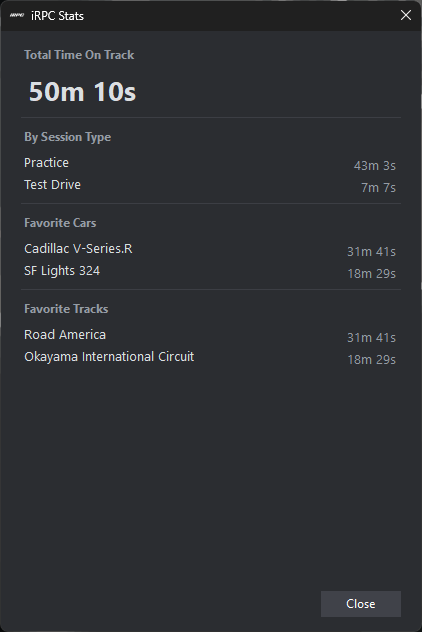
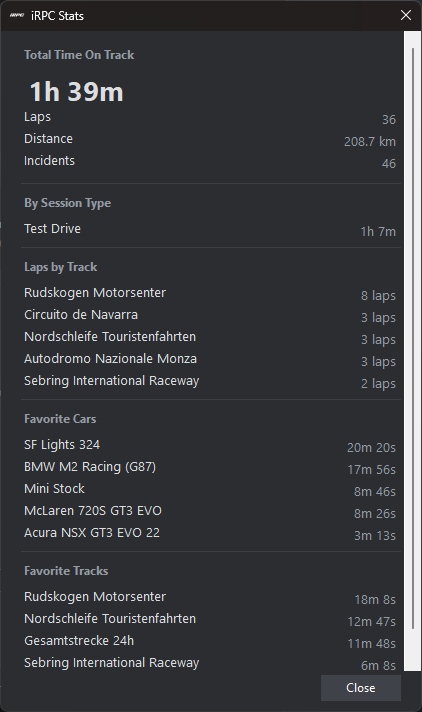
README: copy edits and add preview image
Add new settings preview image and refresh README text for clarity. Files changed: added ArtAssets/preview_settings_chipeditor.png and updated ArtAssets/preview_stats.png. README.md received copy-editing (hyphenation/punctuation), replaced "bricks" wording with "chips" and updated related UI descriptions and screenshots, clarified logging/debug instructions, simplified publish example (removed versioned exe name), and other small wording improvements to make the docs clearer for users.

diff --git a/README.md b/README.md
@@ -1,6 +1,6 @@
 # iRPC
 
-A lightweight Windows system tray app that displays your live iRacing session as Discord Rich Presence — track, car, position, lap progress, fuel, weather, iRating, and more, fully customizable.
+A lightweight Windows system tray app that shows your live iRacing session as Discord Rich Presence. Track, car, position, lap progress, fuel, weather, iRating, and more - all fully customizable.
 
 ![Discord Rich Presence preview](ArtAssets/preview.png)
 
@@ -8,27 +8,25 @@ A lightweight Windows system tray app that displays your live iRacing session as
 
 ## Features
 
-- **Live session info in Discord** — track, car, session type, position/class position, laps, time remaining, speed, fuel, last/best lap, weather, flags, pit/garage status
-- **iRating & Strength of Field** — your live iRating plus rolling averages (last 5 / 10 / custom window of races), and a session's Strength of Field computed with iRacing's own Elo-style formula
-- **Pit & damage tracking** — mandatory/optional repair time remaining, fast repairs used/available, incident count
-- **Per-session-type presence customization** (Practice, Qualify, Race, Test Drive, Time Trial) — each gets its own template
-- **Drag-and-drop brick editor** — build your Details and State lines visually, no typing required
-- **Live preview in Settings** before you save
-- **Track and car brand logos** served directly from GitHub — no Discord asset uploads, no 300-asset limit
-- **Elapsed session timer** as a Discord timestamp
-- **Stats window** — tracks your total time on track, broken down by session type, car, and track
-- **Pause Presence** — instantly hide your presence from the tray menu without closing the app
+- **Live session info in Discord** - track, car, session type, position, laps, time remaining, speed, fuel, last/best lap, weather, flags, pit and garage status
+- **iRating and Strength of Field** - your live iRating, rolling averages (last 5 / 10 / custom races), and SoF using iRacing's own formula
+- **Pit and damage tracking** - repair time remaining, fast repairs used/available, incident count
+- **Per-session templates** - Practice, Qualify, Race, Test Drive, and Time Trial each get their own layout
+- **Chip template editor** - click chips to build your presence, grouped by category with tooltips on each one. Classic text editor also available if you prefer it
+- **Live preview in Settings** before saving
+- **Track and car brand logos** pulled directly from GitHub - no Discord asset limit
+- **Elapsed session timer** shown as a Discord timestamp
+- **Stats window** - tracks your total time on track broken down by session type, car, and track
+- **Pause Presence** - hide your presence from the tray menu without closing the app
 - **Launches on Windows startup** (optional)
-- **Self-updating** — checks GitHub Releases, downloads, verifies, and installs updates with one click
-
-<!-- Add a screenshot here showing a few different Discord presence examples (Practice/Race/etc) -->
+- **Self-updating** - checks GitHub Releases, downloads, verifies, and installs with one click
 
 ---
 
 ## Requirements
 
 - Windows 10 or 11
-- [.NET 8 Desktop Runtime](https://dotnet.microsoft.com/en-us/download/dotnet/8.0) — if missing, Windows will prompt you to install it on the first launch
+- [.NET 8 Desktop Runtime](https://dotnet.microsoft.com/en-us/download/dotnet/8.0) - if missing, Windows will prompt you to install it on first launch
 - Discord (desktop app)
 - iRacing
 
@@ -37,7 +35,7 @@ A lightweight Windows system tray app that displays your live iRacing session as
 ## Installation
 
 1. Download `iRPC.exe` from the [latest release](https://github.com/aftermath-dev/iRPC/releases/latest)
-2. Run it — a tray icon appears in the system tray
+2. Run it - a tray icon appears in the system tray
 3. Open iRacing and start a session
 
 No installer required.
@@ -52,7 +50,7 @@ Right-click the tray icon for:
 |-------------------|------------------------------------------------------|
 | Settings          | Opens the Settings window                            |
 | Stats             | Opens the time-on-track Stats window                 |
-| Reconnect Discord | Forces a fresh handshake with the Discord client     |
+| Reconnect Discord | Forces a fresh connection to the Discord client      |
 | Pause Presence    | Temporarily hides your presence without closing iRPC |
 | Check for Updates | Manually checks GitHub for a newer release           |
 | Exit              | Closes iRPC and clears your Discord presence         |
@@ -63,19 +61,19 @@ Right-click the tray icon for:
 
 ## Settings
 
-Right-click the tray icon → **Settings**
+Right-click the tray icon - **Settings**
 
 ### Presence
 
-Configure what appears on each line of the Discord presence. Select a session type from the dropdown to customize each one independently.
+Configure what appears on each line of the Discord presence. Pick a session type from the dropdown to customize each one independently.
 
-**Details** and **State** are built using draggable bricks. Click a brick in the *Available* pool to add it, drag active bricks to reorder, click × to remove. Hover any brick for a description of what it outputs.
+**Details** and **State** are built using chips. Click a chip to add it to your template, drag to reorder, click × to remove. Hover any chip to see what it outputs. Chips are grouped by category (Session, Position, Lap Times, iRating, Speed & Fuel, Weather, Pit & Status). A classic text editor is also available under App settings if you prefer typing.
 
-![Presence brick editor](ArtAssets/preview_settings_brickeditor.png)
+![Presence editor](ArtAssets/preview_settings_chipeditor.png)
 
-Available bricks:
+Available chips:
 
-| Brick                | Output                                             |
+| Chip                 | Output                                             |
 |----------------------|----------------------------------------------------|
 | Session              | Session type (Race, Practice...)                   |
 | Track                | Track name                                         |
@@ -113,9 +111,9 @@ Available bricks:
 | Setting          | Description                                  |
 |------------------|----------------------------------------------|
 | Large icon       | iRacing logo, iRPC logo, or track logo       |
-| Large image text | Bricks shown as hover text on the large icon |
-| Small icon       | Off, car brand logo, or session type icon    |
-| Small image text | Bricks shown as hover text on the small icon |
+| Large image text | Text shown when hovering the large icon (built with chips) |
+| Small icon       | Off, car brand logo, or session type icon                  |
+| Small image text | Text shown when hovering the small icon (built with chips) |
 
 ![Icons settings](ArtAssets/preview_settings_icons.png)
 
@@ -124,7 +122,6 @@ Available bricks:
 | Setting                      | Description                                                |
 |------------------------------|------------------------------------------------------------|
 | Discord App ID               | Discord application used for Rich Presence                 |
-| Show elapsed timer           | Display elapsed session time as a Discord timestamp        |
 | Show GitHub button           | Show a link to this repo on the presence                   |
 | Launch on startup            | Start iRPC automatically with Windows                      |
 | Check for updates on startup | Silently check for a newer release each time iRPC launches |
@@ -136,7 +133,7 @@ Available bricks:
 
 ## Stats
 
-Open via the tray menu → **Stats**. Shows your accumulated time on track, broken down by session type, car, and track — persisted locally, no account or login needed.
+Open via the tray menu - **Stats**. Shows your accumulated time on track, broken down by session type, car, and track. Saved locally, no account needed.
 
 ![Stats window](ArtAssets/preview_stats.png)
 
@@ -144,7 +141,7 @@ Open via the tray menu → **Stats**. Shows your accumulated time on track, brok
 
 ## Track & Brand Logos
 
-Logos are served directly from `ArtAssets/Tracks/` and `ArtAssets/Brands/` in this repo — no Discord asset upload required. To add a new logo, add a PNG with the right filename and push.
+Logos are served directly from `ArtAssets/Tracks/` and `ArtAssets/Brands/` in this repo - no Discord asset upload required. To add a logo, add a PNG with the right filename and push.
 
 **Filename convention:** lowercase, spaces and hyphens replaced with underscores, prefixed with `track_` or `brand_`.
 
@@ -154,7 +151,7 @@ Logos are served directly from `ArtAssets/Tracks/` and `ArtAssets/Brands/` in th
 | Car brand    | Ferrari  | `brand_ferrari.png` |
 | Session icon | Practice | `icon_practice.png` |
 
-iRPC auto-generates the key from the track/car name reported by iRacing. If the generated key doesn't match your filename (e.g., iRacing calls it "Spa-Francorchamps" → `track_spa_francorchamps`), add a remap in `%AppData%\iRPC\key_overrides.json`:
+iRPC generates the asset key automatically from the track/car name reported by iRacing. If it doesn't match your filename, add a remap in `%AppData%\iRPC\key_overrides.json`:
 
 ```json
 {
@@ -162,7 +159,7 @@ iRPC auto-generates the key from the track/car name reported by iRacing. If the 
 }
 ```
 
-Common remaps are pre-seeded. Check `%AppData%\iRPC\iRPC.log` to see exactly which key and URL the app is resolving for each session.
+Common remaps are pre-seeded. Enable Debug Mode to see exactly which key and URL the app is resolving each session.
 
 ---
 
@@ -179,20 +176,20 @@ dotnet run
 To publish a release build:
 
 ```powershell
-dotnet publish -c Release -r win-x64 -p:SelfContained=false -p:PublishSingleFile=true -p:AssemblyName=iRPC-v0.0.7
+dotnet publish -c Release -r win-x64 -p:SelfContained=false -p:PublishSingleFile=true -p:AssemblyName=iRPC
 ```
 
-Output: `bin/Release/net8.0-windows/win-x64/publish/iRPC-v0.0.7.exe` (~1 MB, framework-dependent)
+Output: `bin/Release/net8.0-windows/win-x64/publish/iRPC.exe` (~1 MB, requires .NET 8 runtime)
 
 ---
 
 ## Logs & Data Files
 
-| File                                  | Contents                                                                |
-|---------------------------------------|-------------------------------------------------------------------------|
-| `%AppData%\iRPC\iRPC.log`             | Debug log — poll ticks, YAML updates, resolved image URLs               |
-| `%AppData%\iRPC\settings.json`        | App settings                                                            |
-| `%AppData%\iRPC\stats.json`           | Time-on-track stats (session type / car / track)                        |
-| `%AppData%\iRPC\irating_history.json` | Your recorded race-end iRatings, used for the rolling averages          |
-| `%AppData%\iRPC\key_overrides.json`   | Asset key remappings (e.g. `track_spa_francorchamps` → `track_spa`)     |
-| `%AppData%\iRPC\tracks.txt`           | Every unique track seen, auto-appended on each new session (if enabled) |
+| File                                  | Contents                                                            |
+|---------------------------------------|---------------------------------------------------------------------|
+| `%AppData%\iRPC\iRPC.log`             | Debug log - poll ticks, YAML updates, resolved image URLs           |
+| `%AppData%\iRPC\settings.json`        | App settings                                                        |
+| `%AppData%\iRPC\stats.json`           | Time-on-track stats (session type / car / track)                    |
+| `%AppData%\iRPC\irating_history.json` | Your recorded race-end iRatings, used for rolling averages          |
+| `%AppData%\iRPC\key_overrides.json`   | Asset key remaps (e.g. `track_spa_francorchamps` -> `track_spa`)    |
+| `%AppData%\iRPC\tracks.txt`           | Every unique track seen, auto-appended per session (if enabled)     |